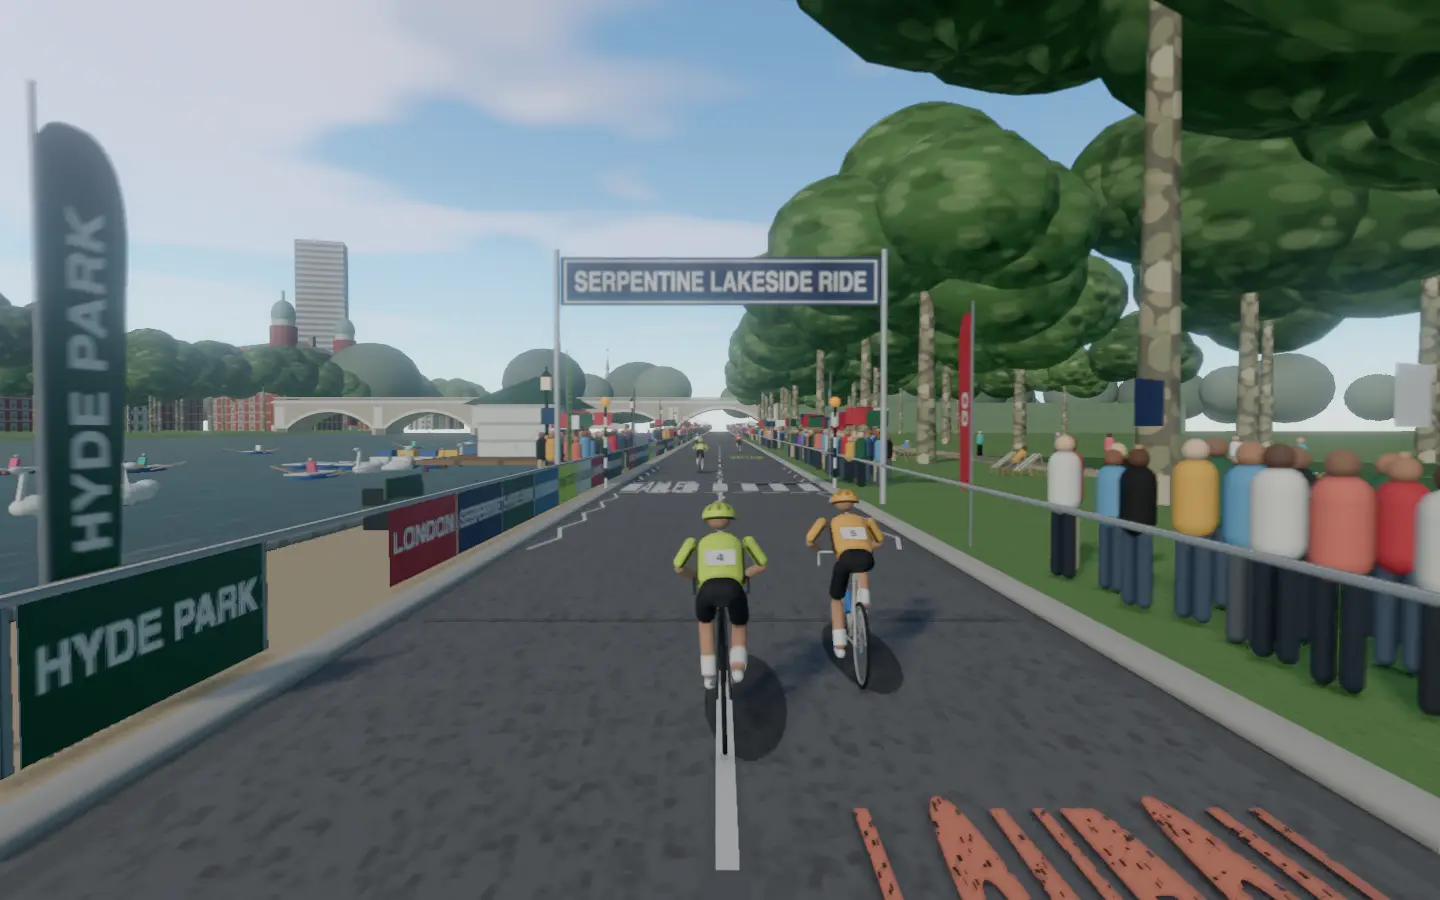
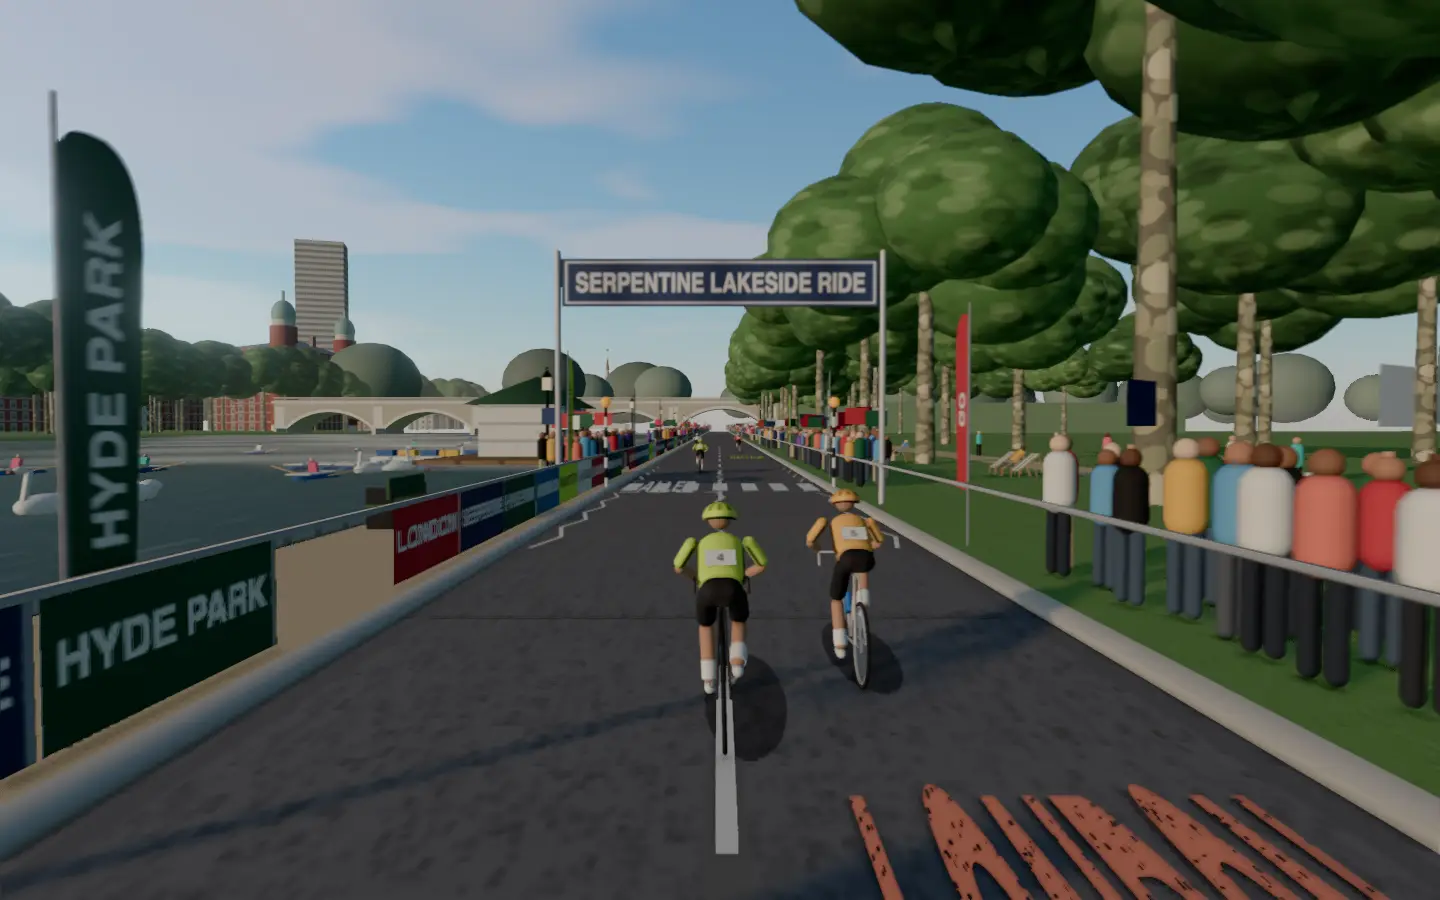
Bring an early-morning light and mist to the Serpentine

diff --git a/frontend/projects/wattzup/src/app/core/world-serpentine.ts b/frontend/projects/wattzup/src/app/core/world-serpentine.ts
@@ -42,6 +42,7 @@ import {
   Figures,
   hazedMaterial,
   loopMetres,
+  Mist,
   paintTexture,
   Ribbons,
   scaleFaceUv,
@@ -73,6 +74,8 @@ const BOATHOUSE = 150;
 /** The Serpentine Bridge stands this far ahead, the road passing under its last arch. */
 const BRIDGE_AHEAD = 240;
 const HAZE = 0xd6dde2;
+/** The morning mist off the water, warmed by the low sun. */
+const MIST = 0xeee6d6;
 const JOGGERS = 22;
 const SWANS = 18;
 const BOATS = 12;
@@ -156,6 +159,7 @@ export class SerpentineStreet implements SceneStreet {
   readonly group = new Group();
   private readonly ribbons: Ribbons;
   private readonly crowd: Crowd;
+  private readonly mist: Mist;
   private readonly props: Prop[] = [];
   private readonly boats: (Mover & { oars: Group[] })[] = [];
   private readonly swans: Mover[] = [];
@@ -174,6 +178,18 @@ export class SerpentineStreet implements SceneStreet {
     private readonly disposables: { dispose(): void }[],
   ) {
     this.ribbons = new Ribbons(this.group, disposables);
+    // Early-morning mist lying on the lake, and a veil over the gardens and the town beyond the
+    // bridge.
+    this.mist = new Mist(this.group, disposables, track, {
+      colour: MIST,
+      loop: LOOP,
+      curtains: [
+        { ahead: 330, height: 36, opacity: 0.32 },
+        { ahead: 560, height: 70, opacity: 0.42 },
+      ],
+      banks: 12,
+      bankX: (k) => -EDGE - 14 - (k % 4) * 26,
+    });
     this.crowd = new Crowd(this.group, disposables, {
       loop: LOOP,
       near: CROWD_NEAR,
@@ -198,6 +214,7 @@ export class SerpentineStreet implements SceneStreet {
     this.disposables.push(this.unit, this.ball, ...this.flagMaterials);
     this.addGround(roadHalf, points);
     this.crowd.build();
+    this.mist.build();
     this.addTrees();
     this.addDeckchairs();
     this.addLamps();
@@ -241,6 +258,8 @@ export class SerpentineStreet implements SceneStreet {
       prop.mesh.position.set(prop.x, ground(metres) + KERB, -metres);
     }
     this.crowd.place(this.time, heightAt, along, KERB);
+    // The banks float just over the water.
+    this.mist.place(this.time, heightAt, along, (x) => (x < -EDGE ? -WATER - 1.2 : KERB));
     const t = this.time;
     // The rowing boats pull slowly along the lake, their oars sweeping.
     for (const b of this.boats) {

diff --git a/frontend/projects/wattzup/src/app/core/world-renderer.ts b/frontend/projects/wattzup/src/app/core/world-renderer.ts
@@ -588,21 +588,22 @@ const LOOKS: Record<WorldId, Look> = {
     },
     fogRange: [200, 2600],
   },
-  // A summer morning on the Serpentine: the sun low behind the rider over Park Lane, a soft
-  // blue sky, the lake bright and Kensington Gardens a little hazy beyond the bridge.
+  // An early summer morning on the Serpentine: the sun low behind the rider's left shoulder over
+  // Park Lane, raking warm light and long shadows across the lawns, mist on the lake, and
+  // Kensington Gardens soft in the haze beyond the bridge.
   serpentine: {
     sky: 0x9ec4e8,
-    fog: 0xd6dde2,
+    fog: 0xe2ddd0,
     ground: 0x4f7a3a,
     road: 0x6a6a6c,
-    sun: 30,
+    sun: 16,
     wet: false,
     haze: false,
-    turbidity: 3.2,
-    rayleigh: 1.6,
-    azimuth: -150,
-    light: { sun: 2.7, fill: 1.2, colour: 0xfff0d8 },
-    fogRange: [150, 1800],
+    turbidity: 3.6,
+    rayleigh: 1.8,
+    azimuth: -128,
+    light: { sun: 3.0, fill: 1.0, colour: 0xffd9a8 },
+    fogRange: [120, 1500],
   },
   // A golden summer evening in Paris: warm low sun behind the riders, the stone glowing.
   champs: {

diff --git a/docs/detailed-designs/world-ride/draw-class-scene/README.md b/docs/detailed-designs/world-ride/draw-class-scene/README.md
@@ -280,12 +280,13 @@ None.
   - the Supertrees of Gardens by the Bay with lattice canopies glowing and changing colour slowly, and the lit skyway between the tallest;
   - warm lamps and palms along both kerbs, strollers on the promenade (`Figures`), and the Merlion spouting into the bay once a lap;
   - across the bay the city's towers lit window by window, Marina Bay Sands' towers and SkyPark, the ArtScience Museum's lotus and the Singapore Flyer turning, keeping their bearing; the ground sinks below the bay.
-- **Serpentine, Hyde Park (`core/world-serpentine.ts`).** For `serpentine`, the road along the north bank of the Serpentine in Hyde Park on a summer morning, closed for the ride:
+- **Serpentine, Hyde Park (`core/world-serpentine.ts`).** For `serpentine`, the road along the north bank of the Serpentine in Hyde Park early on a summer morning, the sun low behind the rider's left shoulder raking warm light and long shadows across the lawns, closed for the ride:
   - the road between low kerbs with a white centre line in short dashes, and short of the boathouse, in the opening view, a zebra crossing: black-and-white stripes, a broken give-way line either side, white zig-zags along both kerbs and the centre on each approach, and a Belisha beacon at each kerb, its amber globe on a black-and-white pole;
   - the fans' writing every 25 m, race barriers hung with the ride's banners (HYDE PARK, SERPENTINE, LONDON, LAKESIDE, WATTZUP, KENSINGTON), the kit's feather flags every 16 m along both and cloth banners across it;
   - on the left a buff gravel footpath with black cast-iron lamp posts every 30 m and a green park bench between each pair facing the water, the lake's stone edge, and the lake 0.6 m below the road out to its far bank 130 m off, where more plane trees stand; `sink` drops the ground below the water;
   - once a lap, 150 m into the loop and so in the opening view, the boathouse on its timber jetty: a white weatherboarded hut under a green hipped roof, a BOATS FOR HIRE sign over the footpath, blue rowing boats and yellow and blue pedalos moored beside it;
   - on the right the lawns under London plane trees in loose rows, their bark mottled cream, olive and grey and their crowns broad and rounded, green-and-white striped deckchairs in twos and threes facing the lake with someone in nearly half of them, and a gravel path 16 m off where joggers and walkers go both ways (the kit's `Figures`);
+  - the morning mist (the kit's `Mist`): banks lying just over the water, drifting along the lake, and two soft curtains beyond the bridge veiling the gardens and the town;
   - the shared crowd in knots along the barriers, thinner on the lake side so the water shows between them, rowing boats pulled along the lake with their oars sweeping, half of them out on the water in the stretch the rider first sees, and mute swans drifting off the bank there in small groups;
   - 240 m ahead the Serpentine Bridge across the lake, the road passing under the last of its five shallow arches: Portland stone with a proud ring of voussoirs to each arch, pilasters up the piers, cutwaters, a cornice and a balustrade, and a grassed embankment carrying the road on to it; beyond it Kensington Gardens' trees, the Albert Memorial's gilded Gothic spire rising over them, and to the left Knightsbridge over the far bank's trees: mansion blocks in red brick and Portland stone, six to nine storeys under slate mansards with chimney stacks, the turreted red-brick hotel by the park with its green copper cupolas, and the barracks tower, all hazed by hand. Trees, deckchairs and banners on the lawns are hidden past the bridge so none stands in front of its arches.
 

diff --git a/docs/class-worlds.md b/docs/class-worlds.md
@@ -28,7 +28,7 @@ Every class in `frontend/public/classes.json`, with its World Ride scene. Render
 | 22 | 15 Minute Beginner Session | Stanley Park Seawall | 81% | The seawall path curls around Vancouver's Stanley Park between the cedars and the sea, past the totem poles at Brockton Point and sailboats on English Bay toward the green towers of the Lions Gate Bridge under the North Shore mountains. The easy warm-up rolls past the totem poles, the one- and two-minute pushes follow the seawall's curve under the cedars, and the single thirty-second sprint races toward the bridge. |
 | 23 | 15 Minute Cardio Workout at Home | Suburban Sunrise | 70% | Quiet tree-lined streets at dawn; sprinklers ticking, papers landing, neighbours waving from porches. |
 | 24 | 15 Min HIIT Cardio: Belly Fat Loss | Bondi to Bronte (concept) |  | Sydney's clifftop coast path; surf breaking below and an ocean pool at every headland. |
-| 25 | 15 Minute HIIT Cardio | Serpentine, Hyde Park | 75% | Rowing boats and white swans glide on the Serpentine as the lakeside road runs west through Hyde Park past the boathouse and the striped deckchairs under the plane trees toward the five stone arches of the Serpentine Bridge. The two-minute warm-up rolls past the boathouse, the three-minute tempo blocks sweep along the lake under the planes, and each thirty-second sprint races for the bridge's arches. |
+| 25 | 15 Minute HIIT Cardio | Serpentine, Hyde Park | 76% | Rowing boats and white swans glide on the Serpentine as the lakeside road runs west through Hyde Park past the boathouse and the striped deckchairs under the plane trees toward the five stone arches of the Serpentine Bridge. The two-minute warm-up rolls past the boathouse, the three-minute tempo blocks sweep along the lake under the planes, and each thirty-second sprint races for the bridge's arches. |
 | 26 | Quick HIIT Workout | Notting Hill Carnival | 72% | Sound systems throbbing on Ladbroke Grove; push through costumed mas bands on carnival Monday. |
 | 27 | Instant Inferno | Kīlauea Lava Road (concept) |  | Hawaiian lava fields and glowing steam vents; each effort climbs toward the crater rim. |
 | 28 | Easy Riding | Napa Vineyards (concept) |  | Rolling vine rows and oak-shaded wineries on a warm Californian afternoon. |
